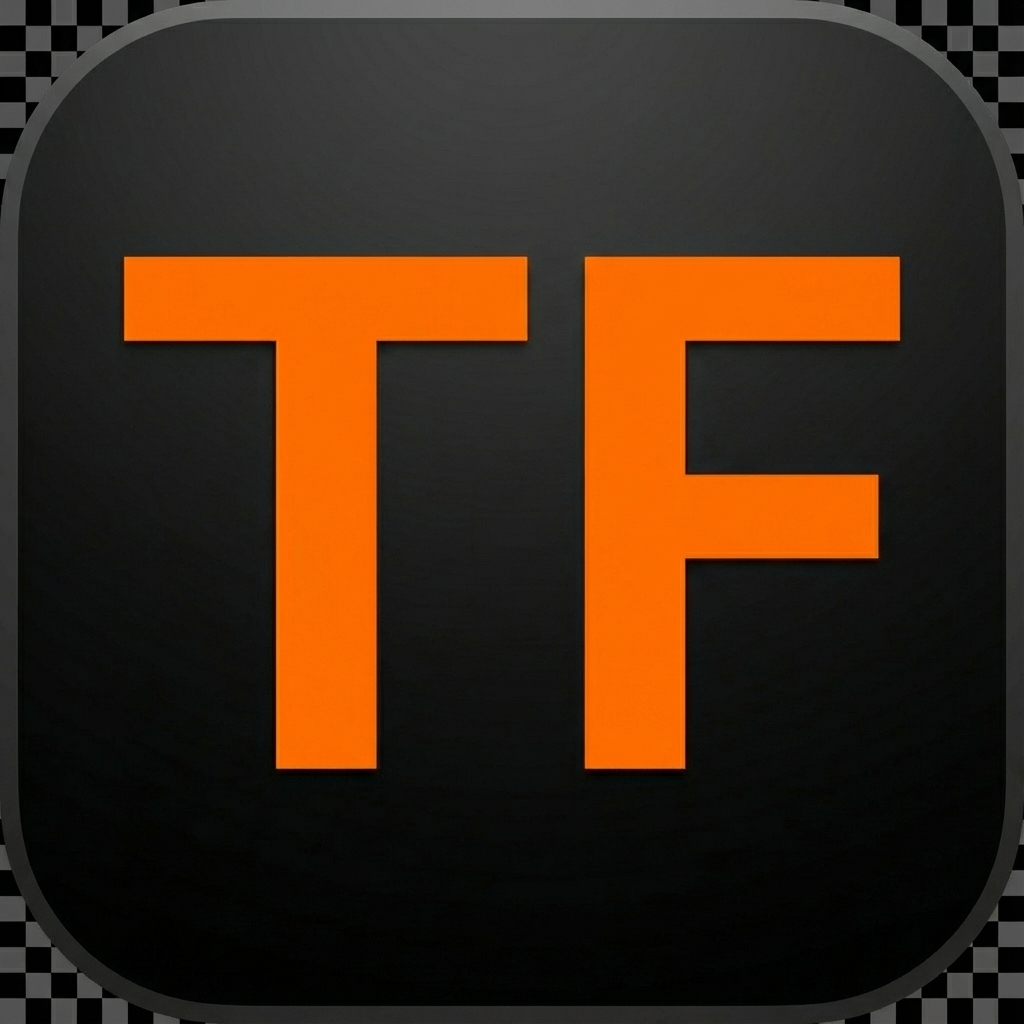
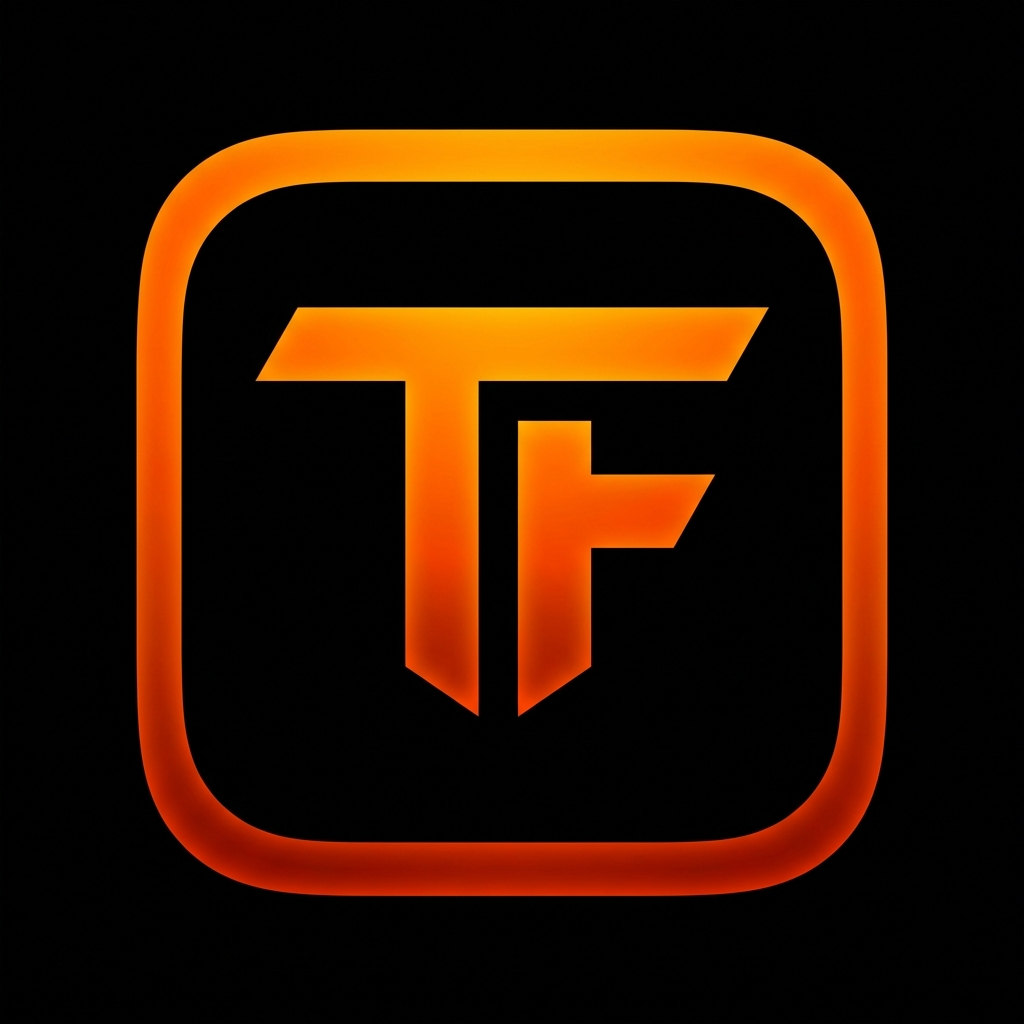
0.9.5 v29 - stability issues

diff --git a/supabase/functions/ai-proxy/index.ts b/supabase/functions/ai-proxy/index.ts
@@ -1,0 +1,157 @@
+
+import { serve } from "https://deno.land/std@0.168.0/http/server.ts";
+import { createClient } from "https://esm.sh/@supabase/supabase-js@2.39.3";
+
+// CORS headers
+const corsHeaders = {
+    "Access-Control-Allow-Origin": "*",
+    "Access-Control-Allow-Headers": "authorization, x-client-info, apikey, content-type",
+};
+
+serve(async (req) => {
+    // Handle CORS preflight request
+    if (req.method === "OPTIONS") {
+        return new Response("ok", { headers: corsHeaders });
+    }
+
+    try {
+        // 1. Kill Switch Check
+        const killSwitch = Deno.env.get("AI_FEATURE_ENABLED") ?? "true";
+        if (killSwitch === "false") {
+            return new Response(
+                JSON.stringify({
+                    error: "Service temporarily unavailable",
+                    message: "AI features are currently disabled for maintenance. Please try again later.",
+                }),
+                {
+                    status: 503,
+                    headers: { ...corsHeaders, "Content-Type": "application/json" },
+                }
+            );
+        }
+
+        // 2. Authentication & Authorization
+        const authHeader = req.headers.get("Authorization");
+        if (!authHeader) {
+            return new Response(
+                JSON.stringify({ error: "Missing Authorization header" }),
+                { status: 401, headers: { ...corsHeaders, "Content-Type": "application/json" } }
+            );
+        }
+
+        // Initialize Supabase Client
+        const supabaseUrl = Deno.env.get("SUPABASE_URL") ?? "";
+        const supabaseAnonKey = Deno.env.get("SUPABASE_ANON_KEY") ?? "";
+        const supabase = createClient(supabaseUrl, supabaseAnonKey, {
+            global: { headers: { Authorization: authHeader } },
+        });
+
+        // Get User User
+        const { data: { user }, error: authError } = await supabase.auth.getUser();
+        if (authError || !user) {
+            return new Response(
+                JSON.stringify({ error: "Invalid token" }),
+                { status: 401, headers: { ...corsHeaders, "Content-Type": "application/json" } }
+            );
+        }
+
+        // 3. Subscription Check
+        // We can use the RPC function `get_user_subscription_tier` or query `user_profiles` directly.
+        // RPC is safer as it encapsulates logic.
+        const { data: tier, error: tierError } = await supabase.rpc('get_user_subscription_tier', { target_user_id: user.id });
+
+        if (tierError) {
+            console.error("Tier check error:", tierError);
+            return new Response(
+                JSON.stringify({ error: "Failed to verify subscription" }),
+                { status: 500, headers: { ...corsHeaders, "Content-Type": "application/json" } }
+            );
+        }
+
+        // Allowed tiers: 'pro', 'enterprise', 'admin'
+        // 'demo' and 'free' are blocked from AI features
+        const ALLOWED_TIERS = ['pro', 'enterprise', 'admin'];
+        if (!ALLOWED_TIERS.includes(tier)) {
+            return new Response(
+                JSON.stringify({
+                    error: "Subscription required",
+                    message: "This feature requires a PRO or Enterprise subscription.",
+                    tier: tier
+                }),
+                {
+                    status: 403,
+                    headers: { ...corsHeaders, "Content-Type": "application/json" }
+                }
+            );
+        }
+
+        // 4. Proxy to Gemini
+        const { prompt, history } = await req.json();
+        const apiKey = Deno.env.get("GEMINI_API_KEY");
+
+        if (!apiKey) {
+            console.error("Missing GEMINI_API_KEY");
+            return new Response(
+                JSON.stringify({ error: "Server configuration error" }),
+                { status: 500, headers: { ...corsHeaders, "Content-Type": "application/json" } }
+            );
+        }
+
+        // Call Gemini API (GenerateContent)
+        // Using fetch directly to allow streaming (if we want) or simple JSON
+        // Start with simple JSON for robustness
+        const url = `https://generativelanguage.googleapis.com/v1beta/models/gemini-1.5-flash:generateContent?key=${apiKey}`;
+
+        // Construct contents from history + prompt
+        let contents = [];
+        if (history && Array.isArray(history)) {
+            contents = history.map(msg => ({
+                role: msg.role === 'user' ? 'user' : 'model',
+                parts: [{ text: msg.parts }] // Assuming simplified history structure
+            }));
+        }
+        // Add current prompt
+        if (prompt) {
+            contents.push({
+                role: 'user',
+                parts: [{ text: prompt }]
+            });
+        }
+
+        const response = await fetch(url, {
+            method: "POST",
+            headers: { "Content-Type": "application/json" },
+            body: JSON.stringify({ contents }),
+        });
+
+        const data = await response.json();
+
+        if (!response.ok) {
+            console.error("Gemini API Error:", data);
+            return new Response(
+                JSON.stringify({ error: "AI Provider Error", details: data }),
+                { status: response.status, headers: { ...corsHeaders, "Content-Type": "application/json" } }
+            );
+        }
+
+        // Extract text for simplified client consumption
+        const text = data.candidates?.[0]?.content?.parts?.[0]?.text || "";
+
+        return new Response(
+            JSON.stringify({ text, raw: data }),
+            {
+                headers: { ...corsHeaders, "Content-Type": "application/json" },
+            }
+        );
+
+    } catch (error) {
+        console.error("Edge Function Error:", error);
+        return new Response(
+            JSON.stringify({ error: error.message }),
+            {
+                status: 500,
+                headers: { ...corsHeaders, "Content-Type": "application/json" },
+            }
+        );
+    }
+});

diff --git a/services/geminiService.ts b/services/geminiService.ts
@@ -1,43 +1,35 @@
-import { GoogleGenAI } from "@google/genai";
+// import { GoogleGenAI } from "@google/genai"; // Removed direct import
+import { invokeAuthedFunction } from "./functionsClient";
 
 export const getAiSuggestion = async (contextData: string): Promise<string> => {
   try {
-    if (!import.meta.env.VITE_GEMINI_API_KEY) {
-      return "AI API Key not configured.";
-    }
-
-    const ai = new GoogleGenAI({ apiKey: import.meta.env.VITE_GEMINI_API_KEY });
-    const response = await ai.models.generateContent({
-      model: 'gemini-2.0-flash',
-      contents: `You are an intelligent assistant for a Construction Management CRM. 
-      Analyze the following subcontractor data and suggest the best contact for a "rush job on internal plastering" (Vnitřní omítky). 
-      Explain why briefly in Czech.
-      
-      Data: ${contextData}`,
+    // Call backend proxy
+    const result = await invokeAuthedFunction<{ text: string }>('ai-proxy', {
+      body: {
+        prompt: `You are an intelligent assistant for a Construction Management CRM. 
+        Analyze the following subcontractor data and suggest the best contact for a "rush job on internal plastering" (Vnitřní omítky). 
+        Explain why briefly in Czech.
+        
+        Data: ${contextData}`,
+      }
     });
 
-    return response.text || "Could not generate suggestion.";
+    return result.text || "Could not generate suggestion.";
   } catch (error) {
-    console.error("Gemini API Error:", error);
+    console.error("AI Proxy Error:", error);
+    if (error instanceof Error && error.message.includes('Subscription required')) {
+      return "Pro tuto funkci je potřeba vyšší tarif (PRO/Enterprise).";
+    }
     return "AI service temporarily unavailable.";
   }
 };
 
 export const findCompanyRegions = async (contacts: { id: string; company: string; ico?: string }[]): Promise<Record<string, string>> => {
   try {
-    if (!import.meta.env.VITE_GEMINI_API_KEY) {
-      console.error("AI API Key not configured.");
-      return {};
-    }
-
-    const ai = new GoogleGenAI({ apiKey: import.meta.env.VITE_GEMINI_API_KEY });
-
     // Construct a list for the prompt
     const listStr = contacts.map(c => `ID: ${c.id}, Company: ${c.company}, ICO: ${c.ico || 'N/A'}`).join('\n');
 
-    const response = await ai.models.generateContent({
-      model: 'gemini-2.0-flash', // Using standard flash for general logic + search
-      contents: `You are a data enrichment assistant. 
+    const prompt = `You are a data enrichment assistant. 
       For the following list of Czech companies, search the internet to find their registered headquarters region (Kraj) in the Czech Republic (e.g. "Hlavní město Praha", "Jihomoravský kraj", etc.).
       
       Use the ICO (Identification Number) if provided to be precise.
@@ -47,28 +39,28 @@ export const findCompanyRegions = async (contacts: { id: string; company: string
       Do not include markdown formatting like \`\`\`json. Just the raw JSON string.
       
       List:
-      ${listStr}`,
-      config: {
-        tools: [{ googleSearch: {} }],
-        // Note: responseMimeType cannot be used with googleSearch, so we parse text manually.
-      }
+      ${listStr}`;
+
+    // Call backend proxy
+    const result = await invokeAuthedFunction<{ text: string }>('ai-proxy', {
+      body: { prompt }
     });
 
-    const text = response.text || "{}";
+    const text = result.text || "{}";
 
     // Clean up potential markdown code blocks if the model ignores the instruction
     const jsonStr = text.replace(/```json/g, '').replace(/```/g, '').trim();
 
     try {
-      const result = JSON.parse(jsonStr);
-      return result;
+      const parsed = JSON.parse(jsonStr);
+      return parsed;
     } catch (e) {
       console.error("Failed to parse AI response as JSON", text);
       return {};
     }
 
   } catch (error) {
-    console.error("Gemini API Error (Region Search):", error);
+    console.error("AI Proxy Error (Region Search):", error);
     return {};
   }
 };

diff --git a/services/aiInsightsService.ts b/services/aiInsightsService.ts
@@ -1,7 +1,5 @@
-import { GoogleGenerativeAI } from '@google/generative-ai';
 
-// Initialize Gemini - API key from .env as VITE_GEMINI_API_KEY
-const genAI = new GoogleGenerativeAI(import.meta.env.VITE_GEMINI_API_KEY || '');
+import { invokeAuthedFunction } from "./functionsClient";
 
 interface ProjectSummary {
   name: string;
@@ -38,19 +36,9 @@ export interface AIInsight {
 const getRandomSeed = () => Math.floor(Math.random() * 1000);
 
 export const generateProjectInsights = async (projects: ProjectSummary[], mode: 'achievements' | 'charts' | 'reports' | 'contacts' | 'overview' = 'achievements'): Promise<AIInsight[]> => {
-  if (!import.meta.env.VITE_GEMINI_API_KEY) {
-    return [{
-      title: 'API klíč nenalezen',
-      content: 'Pro AI analýzu přidejte VITE_GEMINI_API_KEY do .env souboru.',
-      type: 'warning',
-      icon: 'warning'
-    }];
-  }
+  // Client-side API key check removed - handled by backend proxy auth
 
   try {
-    // Use specific model version for better stability
-    const model = genAI.getGenerativeModel({ model: 'gemini-2.0-flash-001' });
-
     const projectsSummary = projects.map(p => ({
       název: p.name,
       rozpočet: p.totalBudget,
@@ -249,9 +237,12 @@ ${JSON.stringify(projectsSummary, null, 2)}`;
 
     const prompt = basePrompt + dataContext;
 
-    const result = await model.generateContent(prompt);
-    const response = await result.response;
-    const text = response.text();
+    // Call backend proxy via Supabase Edge Function
+    const result = await invokeAuthedFunction<{ text: string }>('ai-proxy', {
+      body: { prompt }
+    });
+
+    const text = result.text || "";
 
     // For overview mode, return the text directly (not JSON)
     if (mode === 'overview') {
@@ -302,7 +293,18 @@ ${JSON.stringify(projectsSummary, null, 2)}`;
       icon: 'insights'
     }];
   } catch (error) {
-    console.error('Gemini API error:', error);
+    console.error('AI Proxy error:', error);
+
+    // Check for subscription error
+    if (error instanceof Error && error.message.includes('Subscription required')) {
+      return [{
+        title: 'Vyžadováno předplatné',
+        content: 'Pro tuto funkci je potřeba vyšší tarif (PRO/Enterprise).',
+        type: 'warning',
+        icon: 'lock'
+      }];
+    }
+
     return [{
       title: 'Chyba při analýze',
       content: 'Nepodařilo se získat AI insights. Zkuste to později.',

diff --git a/desktop/main/main.ts b/desktop/main/main.ts
@@ -18,6 +18,7 @@ function createWindow(): void {
         height: 900,
         minWidth: 1024,
         minHeight: 700,
+        icon: path.join(__dirname, '../../assets/icon.ico'),
         webPreferences: {
             preload: path.join(__dirname, 'preload.js'),
             contextIsolation: true,
@@ -29,6 +30,11 @@ function createWindow(): void {
         show: false, // Show when ready
         backgroundColor: '#0f172a', // Match app dark theme
     });
+
+    // Set dock icon on macOS
+    if (process.platform === 'darwin') {
+        app.dock.setIcon(path.join(__dirname, '../../assets/icon.ico'));
+    }
 
     // Show window when ready to prevent flash
     mainWindow.once('ready-to-show', () => {

diff --git a/env.d.ts b/env.d.ts
@@ -1,7 +1,7 @@
 /// <reference types="vite/client" />
 
 interface ImportMetaEnv {
-    readonly VITE_GEMINI_API_KEY: string;
+    readonly VITE_GEMINI_API_KEY?: string; // Now optional, moved to backend
     readonly VITE_GOOGLE_API_KEY?: string;
     readonly VITE_SUPABASE_URL: string;
     readonly VITE_SUPABASE_ANON_KEY: string;
